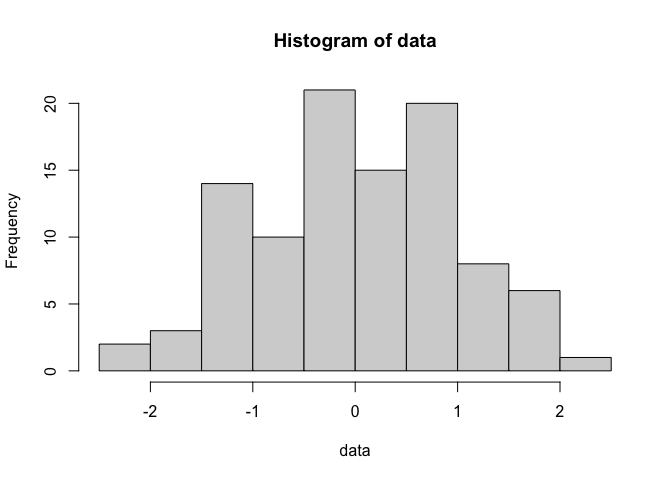
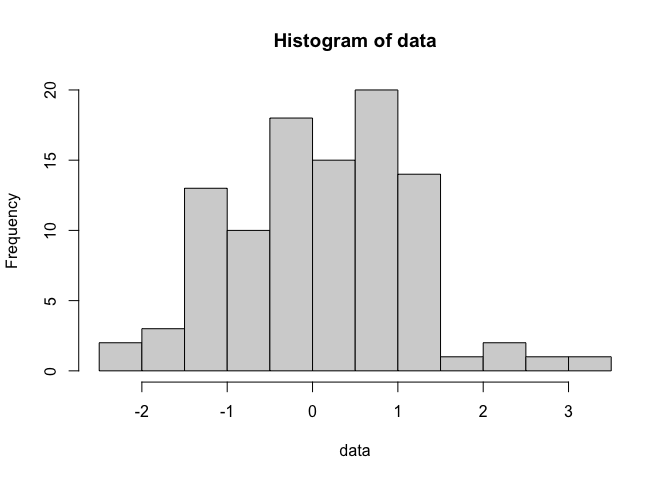
tutorials-lida: README

diff --git a/tutorials/lida-rr/README.md b/tutorials/lida-rr/README.md
@@ -1,5 +1,6 @@
 Code Sharing and Reproducible Research
 ================
+L Hama
 2020-09-25
 
   - [Code sharing for
@@ -30,6 +31,12 @@ Who does this? *Biostatistics*
 > articles with an “R.” (Peng 2011)
 
 ### Code sharing for reproducibility
+
+Version Control System (Wikipedia
+\[entry\]\](<https://en.wikipedia.org/wiki/Version_control>)) is the
+subject name for tracking source code versioning and also to collaborate
+remotely. Git is just one of few but perhaps the best. One of the two
+major contributions from Linus Torvalds.
 
 There is not as far as I know a convention or established method.
 www.sourceforge.net to dump source code or in the case of theses, maybe
@@ -68,8 +75,8 @@ data <- rnorm(100)
 summary(data)
 ```
 
-    ##      Min.   1st Qu.    Median      Mean   3rd Qu.      Max. 
-    ## -2.369489 -0.578861 -0.005077  0.022014  0.777002  2.273746
+    ##     Min.  1st Qu.   Median     Mean  3rd Qu.     Max. 
+    ## -2.27160 -0.60509  0.08370  0.09897  0.80347  3.08339
 
 ``` r
 hist(data)
